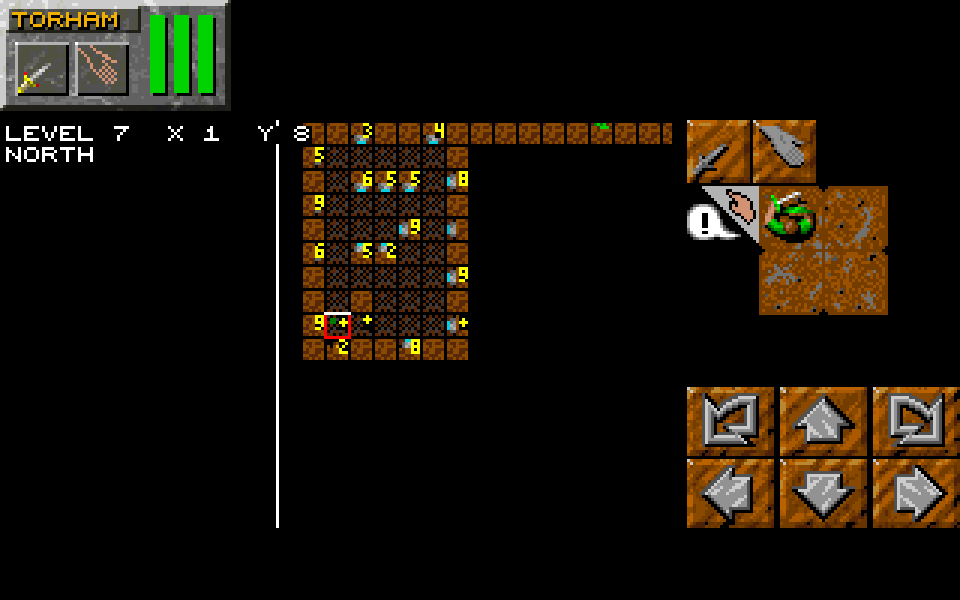
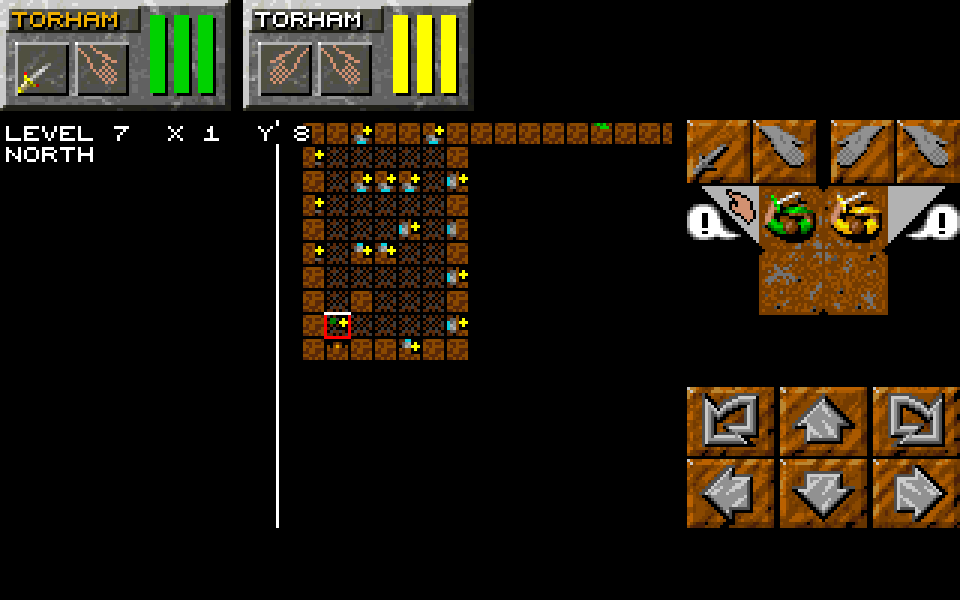
Use a single plus for automap items and refresh screenshots

diff --git a/src/ui/automap.c b/src/ui/automap.c
@@ -29,10 +29,9 @@
 /* The squares around a map that the view draws as its edge walls (dungeon_square_edge). */
 #define MAP_MARGIN 1
 
-/* A small item symbol or pile count in the upper right of a square; ten or more items show a plus. */
+/* A plus in the upper right of any square containing loose items. */
 #define ITEM_MARK_W     3
 #define ITEM_MARK_H     5
-#define ITEM_MARK_LIMIT 10
 #define ITEM_MARK_LEFT  (MAP_ICON_W - ITEM_MARK_W)
 
 /* The item list: a count/page subtitle, eight names, then mouse paging controls. */
@@ -74,10 +73,8 @@ static struct {
     int page;
 } inspection;
 
-/* Three pixels per row: a diamond for one item, digits for piles, then a plus for larger piles. */
-static const char *const item_marks[] = {"000000000000000", "010111010000000", "110001010100111", "110001010001110",
-                                         "101101111001001", "111100110001110", "011100111101111", "111001010010010",
-                                         "111101111101111", "111101111001110", "000010111010000"};
+/* Three pixels per row: the same plus for any number of items. */
+static const char item_mark[] = "000010111010000";
 
 /* The maps of the party level, ended by LEVEL_LIST_END. */
 static const uint8_t *party_level_maps(void)
@@ -294,18 +291,17 @@ static void checker_overlay(Offscreen *o, const int16_t *clip, int16_t icon_x, i
                 fill_clipped(o, clip, (int16_t[RECT_SIZE]){(int16_t)px, (int16_t)py, 1, 1}, g_ui_colors[UI_LIGHT_GRAY]);
 }
 
-/* Draws every loose item, even one without map graphics, as a clipped yellow symbol or pile count. */
+/* Marks loose items, even those without map graphics, with a clipped yellow plus. */
 static void show_item_mark(Offscreen *o, const int16_t *clip, Location level_at, int16_t icon_x, int16_t icon_y)
 {
     int count = automap_items(level_at, NULL, 0);
     if (!count)
         return;
-    const char *mark = item_marks[min_int(count, ITEM_MARK_LIMIT)];
     for (int y = 0; y < ITEM_MARK_H; y++)
         for (int x = 0; x < ITEM_MARK_W; x++)
             fill_clipped(o, clip,
                          (int16_t[RECT_SIZE]){(int16_t)(icon_x + ITEM_MARK_LEFT + x), (int16_t)(icon_y + y), 1, 1},
-                         g_ui_colors[mark[y * ITEM_MARK_W + x] == '1' ? UI_YELLOW : UI_BLACK]);
+                         g_ui_colors[item_mark[y * ITEM_MARK_W + x] == '1' ? UI_YELLOW : UI_BLACK]);
 }
 
 /* The white frame just outside the level rect, whose level position (0, 0) icon is at (left, top). */

diff --git a/tests/port/test_automap_items.py b/tests/port/test_automap_items.py
@@ -141,13 +141,9 @@ def test_overlapping_maps_list_only_the_same_owner_as_the_map_picture(lib, item_
     assert buffer[0] == thing
 
 
-@pytest.mark.parametrize("count,mark", [
-    (1, "010111010000000"),
-    (2, "110001010100111"),
-    (9, "111101111001110"),
-    (10, "000010111010000"),
-])
-def test_pile_symbols_and_party_frame_remain_visible(lib, item_map, count, mark):
+@pytest.mark.parametrize("count", [1, 2, 9, 10, 15])
+def test_plus_symbol_and_party_frame_remain_visible(lib, item_map, count):
+    mark = "000010111010000"
     for _ in range(count):
         drop(lib, item_map)
     lib.seen_mark(item_map, C.DIR_NORTH)

diff --git a/README.md b/README.md
@@ -61,21 +61,21 @@ The improvements include automap item inspection, spell favorites, in-game help,
 
 Press **Tab** or **M** in the dungeon view to open the automap. Game time stops while you inspect it. The map normally shows explored squares; drag with the left mouse button to look around, then reopen it to center on the party again. The position readout gives the level, coordinates, and facing direction.
 
-![Automap with yellow item markers and pile counts](docs/images/advanced-automap-items.png)
+![Automap with a single yellow plus per tile containing items](docs/images/advanced-automap-items.png)
 
-*Yellow markers identify loose items. Counts distinguish small piles, while a plus sign represents ten or more items. This demonstration uses Reveal map, so it includes squares beyond normal exploration.*
+*A single yellow plus identifies each tile containing loose items, regardless of quantity. This demonstration uses Reveal map, so it includes squares beyond normal exploration.*
 
 The markers answer a practical question: where did I leave that pile? They reflect the current dungeon state, including alcove items and items without map graphics. Containers count as one item; their contents, champion and creature inventories, missiles, and effects are excluded. Moving creatures and merchants are not shown as map creatures.
 
-A single item has a yellow diamond; piles of two through nine display a count, and larger piles display `+`. Exploration remains meaningful: without Reveal map, items appear only on explored squares. Turning Reveal map on does not permanently mark those squares as explored.
+Every tile containing items has one yellow `+`. Click the tile to see item names and quantities. Exploration remains meaningful: without Reveal map, items appear only on explored squares. Turning Reveal map on does not permanently mark those squares as explored.
 
 #### Inspect a pile without walking to it
 
 Short-click a square containing items to open its list. Matching names are grouped with quantities, and the subtitle reports the exact total. Large collections span multiple pages.
 
-![Item inspection showing twelve items over two pages](docs/images/advanced-item-list.png)
+![Item inspection showing ten items over two pages](docs/images/advanced-item-list.png)
 
-*The selected square contains twelve items. Page 1 of 2 lists eight groups, including a compass, copper coin, and small plank. NEXT opens the remaining groups.*
+*The selected square contains ten items. Page 1 of 2 lists eight groups, including a compass, copper coin, and small plank. NEXT opens the remaining groups.*
 
 Use **Left/Right**, **A/D**, or **PREVIOUS/NEXT** to change pages. Click **MAP**, press **Esc**, or right-click to return to the map; **Tab/M** close the automap from either view. Inspection reads the current items whenever drawn, so collecting or dropping items changes the next view without a separate saved item history.
 

diff --git a/docs/rules/advanced-mode.md b/docs/rules/advanced-mode.md
@@ -66,7 +66,7 @@ The automap and the cheat screen open in the viewport and stop the game time. Th
 The automap shows the seen squares of all maps of the party level, each at its place on the level. It covers the viewport. The party square is in the middle of the viewport, north is up.
 
 - The squares use the icons of the minion map: walls, floors, pits, stairs, doors, wall and floor ornaments, teleporter fields, and the level digits. The automap shows the static creatures that have a map icon (trees and other creatures that do not move); moving creatures and merchants do not show. A red frame and the champion icons mark the party square. The side of the frame that faces the party's direction is white.
-- Current loose items on explored squares have a yellow diamond in the upper right of their square. A pile of two to nine items shows its count; ten or more shows `+`. The marker also covers alcove items and items without map graphics. Containers count once; their contents, champion/creature inventories, missiles, and effects are excluded. Reveal map also exposes items on unexplored squares without marking them explored.
+- Current loose items on explored squares have a single yellow plus in the upper right of their square, regardless of quantity. The marker also covers alcove items and items without map graphics. Containers count once; their contents, champion/creature inventories, missiles, and effects are excluded. Reveal map also exposes items on unexplored squares without marking them explored.
 - A short left click on a square with items opens its item list. Matching names are grouped with quantities, and the subtitle shows the exact total. Use Left/Right or A/D, or click PREVIOUS/NEXT, to page through every item group. Click MAP, press Esc, or right-click to return to the map. Tab/M close the automap from either view. The list and markers read the current dungeon state whenever drawn; no separate item history is saved.
 - A wall that the dungeon view shows at the edge of a map shows as a wall ([view.md](view.md#automap)).
 - A 1-pixel white frame surrounds the level with its maps' margins, just outside its last squares. It marks the end of the level, even where squares are not seen.

diff --git a/docs/manual.md b/docs/manual.md
@@ -89,7 +89,7 @@ changes a few things:
 The automap, Options/Help, spell favorites, and cheat screen stop game time while open. The exact rules are in
 [Advanced mode rules](rules/advanced-mode.md).
 
-On the automap, yellow diamonds mark items on explored squares. Piles show a count (`+` for ten or more).
+On the automap, a single yellow plus marks each explored square containing items, regardless of quantity.
 Click a marked square to see item names and quantities; Left/Right or A/D and PREVIOUS/NEXT change pages.
 Click MAP, press Esc, or right-click to return to the map. Dragging still scrolls; Tab/M close the automap.
 Reveal map also shows items in unexplored areas. Markers update after pickup/drop, including items in alcoves;
